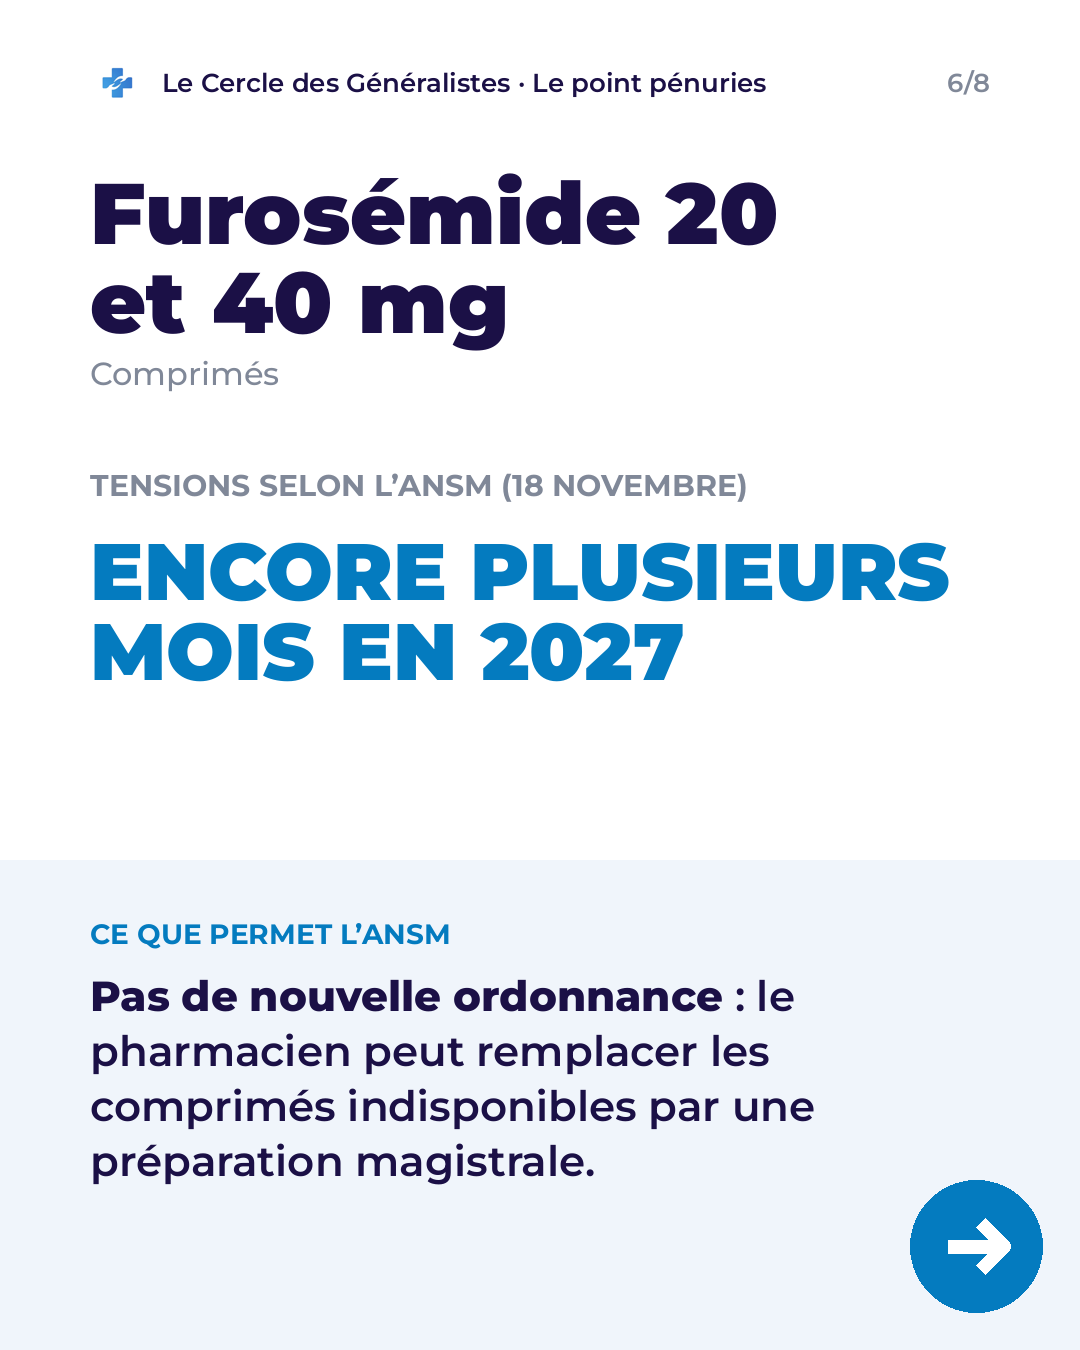
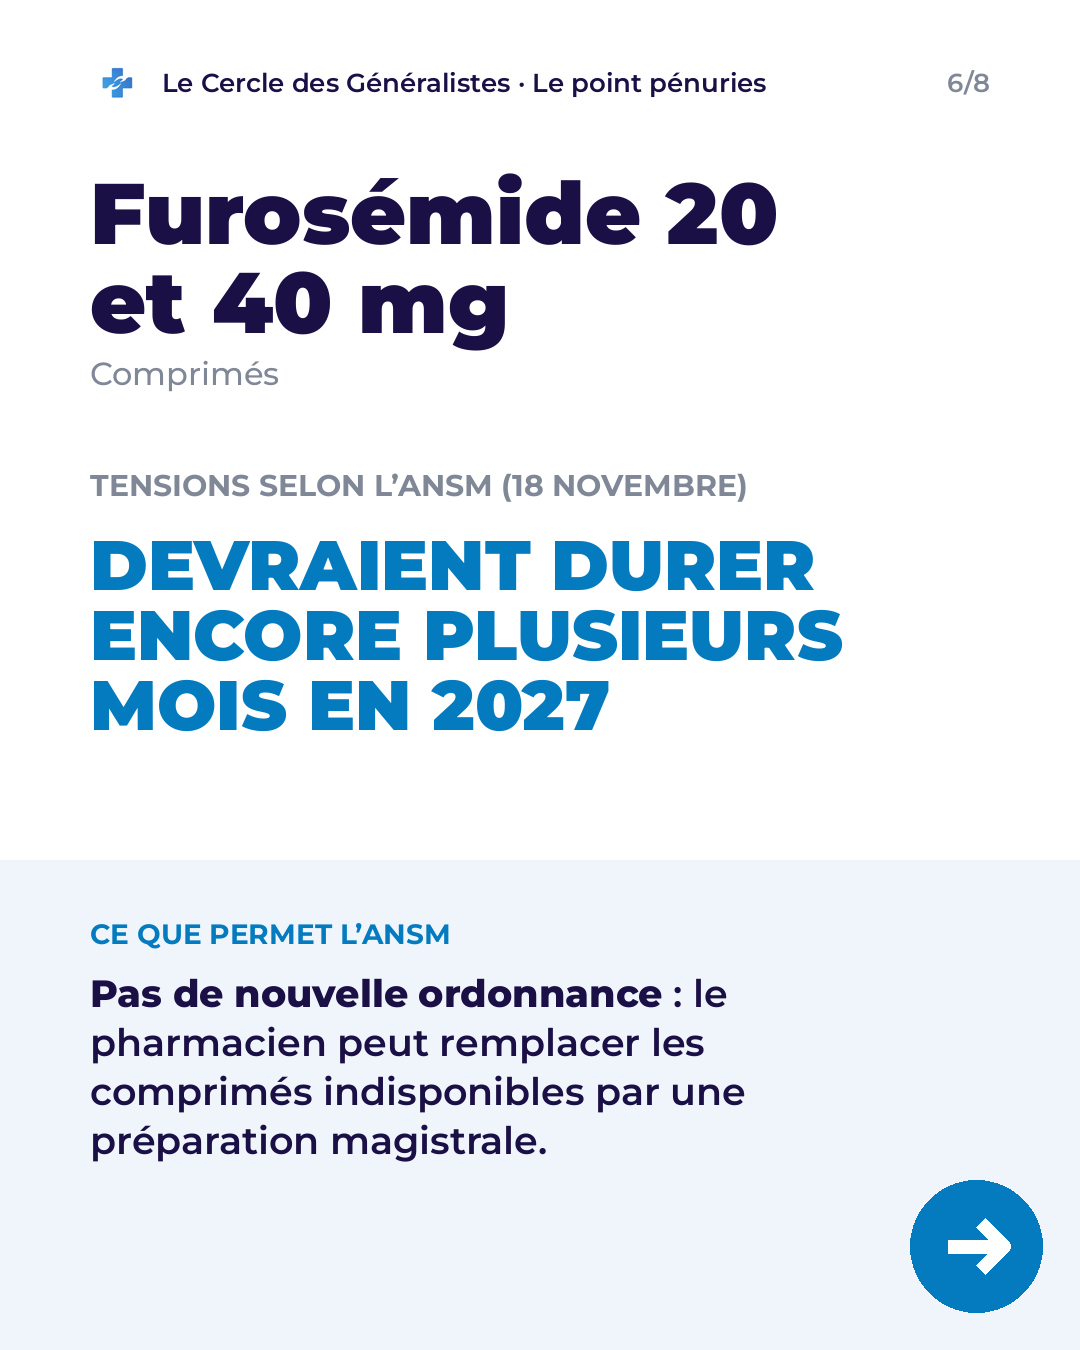
Carrousels du 19/11 : corrections de la relecture independante
Ordonnance de 2026 non tranchee (pastille datee de la prescription), opinion du Cercle detachee du raisonnement du
Conseil d'Etat, conditionnel du furosemide, selection parmi les tensions de l'ANSM, dates de calendrier inventees
retirees, recommandation Jext entiere, mention Zovirax citee mot pour mot ; legendes : question qui fait commenter,
LinkedIn penuries.

Claude-Session: https://claude.ai/code/session_01E7sNzKT9uTZfQaWiRWBKKt

Changed region(s): [[0.0611, 0.3733, 0.8861, 0.56], [0.0611, 0.7156, 0.7639, 0.8711], [0.7028, 0.7156, 0.7333, 0.7467]]

diff --git a/lcdg_1119/carrousels_1119.py b/lcdg_1119/carrousels_1119.py
@@ -111,7 +111,7 @@ def fiche(f, num, total):
     yb = max(y + 70, 860)
     d.rectangle([0, yb, W, H], fill=PALE)
     d.text((MARGE, yb + 56), f["qui"], font=police(28, "Bold"), fill=BLEU)
-    ecrire(d, MARGE, yb + 110, W - 2 * MARGE - 140, f["geste"], 42, graisse="SemiBold", graisse_forte="ExtraBold",
+    ecrire(d, MARGE, yb + 110, W - 2 * MARGE - 140, f["geste"], 38, graisse="SemiBold", graisse_forte="ExtraBold",
            couleur=NUIT, interligne=1.3)
     if num < total:
         fleche(d)
@@ -121,12 +121,13 @@ def fiche(f, num, total):
 # ------------------------------------------------------------------ Secteur 3 (PDF p. 9 et 10)
 SECTEUR3 = [
     # p. 9, SITUATION ; ESSENTIEL (« Quand : au 1er janvier 2027 »)
-    {"titre": f"Leurs ordonnances ne seront *plus remboursées*", "taille_titre": 88, "bandeau_min": 700,
-     "texte": f"Au **1er{NB}janvier 2027**, ce que prescrivent les médecins non conventionnés (secteur{NB}3) ne sera "
-              f"plus remboursé. **Leurs patients viendront vers vous.**",
+    {"titre": f"Secteur{NB}3{NB}: leurs ordonnances ne seront *plus remboursées*", "taille_titre": 82,
+     "bandeau_min": 700,
+     "texte": f"À partir du **1er{NB}janvier 2027**, ce que prescrivent les médecins non conventionnés ne sera plus "
+              f"remboursé, sauf exception. **Leurs patients viendront vers vous.**",
      "image": [{"type": "ordonnance", "titre": "Ordonnance", "marque": f"Secteur{NB}3",
                 "lignes": [{"label": "Médicaments"}, {"label": "Biologie"}, {"label": "Kinésithérapie"}],
-                "pied": f"Plus remboursée au 1er{NB}janvier 2027"}]},
+                "pied": f"Dès le 1er{NB}janvier 2027{NB}: non remboursée"}]},
     # p. 9, CE QUI EST CONFIRMÉ (L. 162-5-10 complété par l'article 76 : « Les produits de santé, les actes et les
     # prestations prescrits […] à l'exception de ceux prescrits par ces médecins à titre gracieux, pour eux-mêmes et
     # pour leurs proches ») ; p. 10 (« biologie, imagerie, kinésithérapie, soins infirmiers, transports »)
@@ -135,7 +136,7 @@ SECTEUR3 = [
               f"médecin non conventionné. Donc aussi la biologie, l{AP}imagerie, la kiné, les soins infirmiers, les "
               f"transports.\nUne seule exception{NB}: ce qu{AP}il prescrit **à titre gracieux**, pour lui-même et ses "
               f"proches.",
-     "image": {"type": "ticket", "titre": f"Prescrit en secteur{NB}3, au 1er{NB}janvier", "lignes": [
+     "image": {"type": "ticket", "titre": f"Prescrit en secteur{NB}3 dès le 1er{NB}janvier 2027", "lignes": [
          {"label": "Médicaments", "valeur": "non remboursés", "ok": False},
          {"label": "Biologie, imagerie", "valeur": "non remboursées", "ok": False},
          {"label": "Kiné, soins infirmiers", "valeur": "non remboursés", "ok": False},
@@ -143,11 +144,11 @@ SECTEUR3 = [
     # p. 9, CE QUI EST CONFIRMÉ (CE n° 517230 du 1er octobre 2026 : refus de renvoyer la QPC de MS3, UFML-S, SML et
     # d'autres ; « il juge que médecins conventionnés et non conventionnés ne sont pas dans une situation comparable et
     # que le droit à la protection de la santé n'est pas atteint, un médecin conventionné restant accessible »)
-    {"titre": f"Le Conseil d{AP}État *a tranché*",
+    {"titre": f"Le Conseil d{AP}État *dit non*",
      "texte": f"Des syndicats ont contesté la mesure. Le 1er{NB}octobre, le Conseil d{AP}État a refusé de "
-              f"transmettre leur question au Conseil constitutionnel.\nSon raisonnement{NB}: le droit à la "
-              f"protection de la santé n{AP}est pas atteint, puisqu{AP}**un médecin conventionné reste "
-              f"accessible**. Ce médecin conventionné, **c{AP}est vous.**",
+              f"transmettre leur question au Conseil constitutionnel.\nIl juge les deux situations non comparables, et "
+              f"le droit à la protection de la santé non atteint, **un médecin conventionné restant accessible**."
+              f"\nSelon nous, ce médecin conventionné, **ce sera souvent vous.**",
      "image": [{"type": "lettre", "entete": f"Conseil d{AP}État", "titre": f"Décision du 1er{NB}octobre 2026"},
                {"type": "tampon", "texte": "Question non transmise", "sur": True}]},
     # p. 10, L'IMPACT (afflux en janvier : renouvellements, biologie, kiné ; pleine période hivernale) et REGARD
@@ -155,8 +156,8 @@ SECTEUR3 = [
     # reprendre un traitement suppose une consultation et un examen, pas un tampon. »)
     {"titre": f"Le piège de *la recopie*",
      "texte": f"Selon le Cercle, janvier va apporter un **afflux de demandes**{NB}: renouvellements de traitements "
-              f"chroniques, biologie, kiné. En pleine période hivernale.\nMais une prescription engage celui qui la "
-              f"signe. Selon nous, reprendre un traitement suppose **une consultation et un examen, pas un "
+              f"chroniques, biologie, kiné. En pleine période hivernale.\nMais selon nous, une prescription engage "
+              f"celui qui la signe{NB}: reprendre un traitement suppose **une consultation et un examen, pas un "
               f"tampon.**",
      "image": {"type": "guichet", "enseigne": "Généraliste", "papier": "Recopie"}},
     # p. 10, RECOMMANDATIONS, médecin généraliste conventionné
@@ -164,19 +165,20 @@ SECTEUR3 = [
      "texte": f"Notre recommandation{NB}: prévoyez **dès décembre des créneaux de reprise de suivi** pour ces "
               f"patients.\nEt à cette consultation, proposez-leur de vous **déclarer médecin traitant**, plutôt que "
               f"de recopier l{AP}ordonnance.",
-     "image": {"type": "calendrier", "annee": 2026, "mois": 12, "du": 1, "au": 4,
-               "legende": "Créneaux de reprise de suivi"}},
+     "image": {"type": "icones", "cartes": [
+         {"icone": "horloge", "label": "Dès décembre : créneaux de reprise", "question": False},
+         {"icone": "patient", "label": "Vous, déclaré médecin traitant", "question": False}]}},
     # p. 10, RECOMMANDATIONS, secrétariat médical
     {"titre": f"Une question *au téléphone*",
-     "texte": f"Votre secrétariat peut repérer ces patients dès décembre. Quand un patient appelle pour une "
+     "texte": f"Votre secrétariat peut repérer ces patients au téléphone. Quand un patient appelle pour une "
               f"ordonnance{NB}: **«{NB}Qui vous l{AP}a prescrite{NB}?{NB}»**\nSi ce médecin n{AP}est pas "
-              f"conventionné, lui proposer **une consultation avant le 1er{NB}janvier 2027**, plutôt qu{AP}un simple "
+              f"conventionné{NB}: proposez au patient **une consultation avant le 1er{NB}janvier 2027**, plutôt qu{AP}un simple "
               f"renouvellement.",
-     "image": {"type": "appel", "etapes": [{"icone": "telephone", "label": f"«{NB}Qui vous l{AP}a prescrite{NB}?{NB}»"},
-                                           {"icone": "courrier", "label": f"Consultation avant le 1er{NB}janvier",
-                                            "temps": 1}]}},
+     "image": {"type": "icones", "cartes": [
+         {"icone": "casque", "label": f"«{NB}Qui vous l{AP}a prescrite{NB}?{NB}»", "question": False},
+         {"icone": "patient", "label": f"Consultation avant le 1er{NB}janvier", "question": False}]}},
     # p. 9-10, CE QUI POSE QUESTION (3 questions au 19 novembre)
-    {"titre": f"Personne *ne sait*",
+    {"titre": f"Ce que les textes *ne disent pas*",
      "texte": f"Une ordonnance de plusieurs mois, rédigée en 2026 et délivrée en 2027{NB}: remboursée ou pas{NB}? "
               f"**L{AP}article{NB}76 ne règle pas ce cas.**\nEt aucun texte lu ne dit comment le pharmacien saura "
               f"que le prescripteur n{AP}est pas conventionné, ni comment le patient, le laboratoire ou l{AP}infirmier "
@@ -187,7 +189,7 @@ SECTEUR3 = [
     # de préciser le sort des ordonnances en cours, et de reconnaître la consultation de reprise de traitement comme une
     # consultation à part entière » (3 demandes, gardées pour le site)
     {"titre": f"Ce que le Cercle *demande*",
-     "texte": f"Le Cercle adresse **3{NB}demandes à l{AP}Assurance Maladie**, avant le 1er{NB}janvier. Elles sont "
+     "texte": f"Le Cercle adresse **3{NB}demandes à l{AP}Assurance Maladie**. Elles sont "
               f"dans notre analyse complète, avec ce que la mesure change pour votre cabinet{NB}: dossier de la revue "
               f"du 19{NB}novembre.",
      "adresse": True, "image": {"type": "verrou", "n": 3}},
@@ -198,8 +200,8 @@ SECTEUR3 = [
 PENURIES_OUVERTURE = {
     # p. 17, SITUATION et L'ESSENTIEL ; furosémide : actualité de l'ANSM du 18 novembre (CONTEXTE)
     "titre": f"Le point *pénuries*", "taille_titre": 110,
-    "texte": f"6 médicaments en tension, signalés par l{AP}ANSM au 19{NB}novembre. Pour chacun{NB}: **la date de "
-             f"retour annoncée, et un geste au cabinet.**\nÀ enregistrer, pour l{AP}avoir sous la main en "
+    "texte": f"6 médicaments en tension, parmi ceux que signale l{AP}ANSM au 19{NB}novembre. Pour chacun{NB}: "
+             f"**ce qu{AP}annonce l{AP}ANSM, et ce qu{AP}il faut savoir au cabinet.**\nÀ enregistrer, pour l{AP}avoir sous la main en "
              f"consultation.",
     "image": {"type": "pharmacie", "pilules": [{"texte": "Contingenté en ville"},
                                                {"texte": "Retour annoncé", "temps": 1}]}}
@@ -209,29 +211,29 @@ FICHES = [
     {"nom": f"Jext 300{NB}µg", "forme": f"Adrénaline, stylo prérempli · contingenté en{NB}ville",
      "libelle": f"RETOUR ANNONCÉ PAR L{AP}ANSM", "date": f"Courant décembre 2026", "taille_date": 92,
      "qui": "NOTRE CONSEIL",
-     "geste": f"Vérifiez que le patient allergique a **2{NB}stylos non périmés**, comme le demande la check-list "
-              f"de l{AP}ANSM."},
+     "geste": f"Vérifiez que chaque patient allergique a **2{NB}stylos non périmés** (check-list de l{AP}ANSM). "
+              f"Plus de Jext dans sa pharmacie{NB}? Signalez le **«{NB}Stock de dépannage d{AP}urgence en ville{NB}»**."},
     # p. 17 (fiche du 3 novembre : remise à disposition fin novembre 2026) ; p. 19, RECOMMANDATIONS (DCI)
     {"nom": f"Diazépam 5{NB}mg", "forme": f"Diazépam Teva 5{NB}mg · contingenté en ville et à{NB}l{AP}hôpital",
      "libelle": f"RETOUR ANNONCÉ PAR L{AP}ANSM", "date": "Fin novembre 2026", "qui": "NOTRE CONSEIL",
-     "geste": f"Prescrivez **en DCI**{NB}: le pharmacien pourra délivrer celui d{AP}un autre laboratoire, s{AP}il "
-              f"est disponible."},
+     "geste": f"Prescrivez **en DCI**{NB}: la fiche de l{AP}ANSM ne vise que la spécialité de Teva. Le pharmacien "
+              f"pourra ainsi délivrer celle d{AP}un autre laboratoire, si elle est disponible."},
     # p. 17 (fiche du 4 novembre : remise à disposition prévue en janvier 2027) ; p. 19, RECOMMANDATIONS (DCI)
     {"nom": "Cotrimoxazole", "forme": f"Cotrimoxazole Teva 800{NB}mg/160{NB}mg · contingenté en{NB}ville",
      "libelle": f"RETOUR ANNONCÉ PAR L{AP}ANSM", "date": "Janvier 2027", "taille_date": 120, "qui": "NOTRE CONSEIL",
-     "geste": f"Prescrivez **en DCI**{NB}: le pharmacien pourra délivrer celui d{AP}un autre laboratoire, s{AP}il "
-              f"est disponible."},
+     "geste": f"Prescrivez **en DCI**{NB}: la fiche de l{AP}ANSM ne vise que la spécialité de Teva. Le pharmacien "
+              f"pourra ainsi délivrer celle d{AP}un autre laboratoire, si elle est disponible."},
     # p. 18 (fiche du 26 octobre : remise à disposition prévue début décembre 2026) ; p. 19, RECOMMANDATIONS (DCI ;
     # « stock limité de dépannage d'urgence en ville »)
     {"nom": f"Nifédipine LP 30{NB}mg", "forme": f"Nifédipine Viatris L.P. 30{NB}mg · contingenté en{NB}ville",
      "libelle": f"RETOUR ANNONCÉ PAR L{AP}ANSM", "date": "Début décembre 2026", "qui": "NOTRE CONSEIL",
-     "geste": f"Prescrivez **en DCI**, et signalez au pharmacien le **«{NB}stock limité de dépannage d{AP}urgence "
-              f"en ville{NB}»**."},
+     "geste": f"Prescrivez **en DCI**{NB}: la fiche ne vise que la spécialité de Viatris. Et signalez au "
+              f"pharmacien le **«{NB}stock limité de dépannage d{AP}urgence en ville{NB}»**."},
     # p. 17, CONTEXTE (ANSM, 18 novembre : « devraient durer encore plusieurs mois en 2027 » ; « permet au pharmacien
     # de remplacer les comprimés indisponibles par une préparation magistrale, sans nouvelle ordonnance »)
     {"nom": f"Furosémide 20 et 40{NB}mg", "forme": "Comprimés",
-     "libelle": f"TENSIONS SELON L{AP}ANSM (18{NB}NOVEMBRE)", "date": f"Encore plusieurs mois en{NB}2027",
-     "taille_date": 80, "qui": f"CE QUE PERMET L{AP}ANSM",
+     "libelle": f"TENSIONS SELON L{AP}ANSM (18{NB}NOVEMBRE)", "date": f"Devraient durer encore plusieurs mois en{NB}2027",
+     "taille_date": 70, "qui": f"CE QUE PERMET L{AP}ANSM",
      "geste": f"**Pas de nouvelle ordonnance**{NB}: le pharmacien peut remplacer les comprimés indisponibles par une "
               f"préparation magistrale."},
     # p. 18 (fiche du 17 novembre : remise à disposition courant janvier 2027 ; « La spécialité Zovirax 200 mg
@@ -239,7 +241,8 @@ FICHES = [
     {"nom": "Zovirax suspension", "forme": f"Aciclovir 200{NB}mg/5{NB}ml, suspension buvable · contingenté en{NB}ville",
      "libelle": f"RETOUR ANNONCÉ PAR L{AP}ANSM", "date": "Courant janvier 2027", "taille_date": 96,
      "qui": f"BON À SAVOIR (ANSM)",
-     "geste": f"**Zovirax 200{NB}mg comprimés reste disponible** pendant la tension de la suspension buvable."},
+     "geste": f"«{NB}La spécialité **Zovirax 200{NB}mg comprimés reste disponible** pendant la durée de la tension "
+              f"de la suspension buvable{NB}»."},
 ]
 PENURIES_FIN = {
     # p. 18, L'IMPACT (« un contingentement ne veut pas dire que le produit manque partout : la disponibilité peut

diff --git a/lcdg_1119/legendes_1119.md b/lcdg_1119/legendes_1119.md
@@ -19,7 +19,9 @@ Au 1er janvier 2027, les prescriptions des médecins non conventionnés ne seron
 
 Pas seulement les médicaments : l'article 76 vise aussi les actes et les prestations prescrits, donc la biologie, l'imagerie, la kiné, les soins infirmiers, les transports. Seule exception : ce que ces médecins prescrivent à titre gracieux, pour eux-mêmes et leurs proches.
 
-Dans le carrousel : le raisonnement du Conseil d'État, le piège de la recopie, ce que vous pouvez préparer dès décembre, la question à confier à votre secrétariat, et ce que personne ne sait encore. À enregistrer pour décembre.
+Dans le carrousel : le raisonnement du Conseil d'État, le piège de la recopie, ce que vous pouvez préparer dès décembre, la question à confier à votre secrétariat, et les questions encore ouvertes. À enregistrer pour décembre.
+
+Et vous, ces patients ont-ils déjà commencé à vous appeler ?
 
 Les 3 demandes du Cercle à l'Assurance Maladie : dans le dossier complet (inscription gratuite), lien en bio.
 
@@ -33,7 +35,7 @@ Même texte que l'Instagram, avec le lien à la fin : [URL-SECTEUR3]?utm_source=
 
 ### LinkedIn (document ou images)
 
-Au 1er janvier 2027, l'article 76 de la loi de financement de la Sécurité sociale pour 2026 rend non remboursables les produits de santé, actes et prestations prescrits par les médecins non conventionnés, sauf ceux prescrits à titre gracieux pour eux-mêmes et leurs proches. Le 1er octobre 2026, le Conseil d'État a refusé de transmettre la question prioritaire de constitutionnalité soulevée par des syndicats : selon lui, le droit à la protection de la santé n'est pas atteint, un médecin conventionné restant accessible.
+Au 1er janvier 2027, l'article 76 de la loi de financement de la sécurité sociale pour 2026 rend non remboursables les produits de santé, actes et prestations prescrits par les médecins non conventionnés, sauf ceux prescrits à titre gracieux pour eux-mêmes et leurs proches. Le 1er octobre 2026, le Conseil d'État a refusé de transmettre la question prioritaire de constitutionnalité soulevée par des syndicats : selon lui, le droit à la protection de la santé n'est pas atteint, un médecin conventionné restant accessible.
 
 Selon le Cercle, l'effet pour le généraliste conventionné est un afflux de demandes en janvier, en pleine période hivernale. Trois questions restent ouvertes au 19 novembre : le sort d'une ordonnance de 2026 délivrée en 2027, l'information du pharmacien, celle du patient, du laboratoire et de l'infirmier.
 
@@ -49,9 +51,11 @@ revérifié chaque fiche le jour même.
 
 Le point pénuries du 19 novembre : 6 médicaments en tension signalés par l'ANSM, leur date de retour annoncée et un geste au cabinet.
 
-Jext 300 µg (retour annoncé courant décembre), diazépam Teva 5 mg (fin novembre), cotrimoxazole Teva 800 mg/160 mg (janvier 2027), nifédipine Viatris L.P. 30 mg (début décembre), furosémide 20 et 40 mg (tensions annoncées pour plusieurs mois encore en 2027), Zovirax 200 mg/5 ml en suspension buvable (courant janvier 2027).
+Jext 300 µg (retour annoncé courant décembre), diazépam Teva 5 mg (fin novembre), cotrimoxazole Teva 800 mg/160 mg (janvier 2027), nifédipine Viatris L.P. 30 mg (début décembre), furosémide 20 et 40 mg (tensions qui « devraient durer encore plusieurs mois en 2027 », selon l'ANSM), Zovirax 200 mg/5 ml en suspension buvable (courant janvier 2027).
 
 À enregistrer, pour l'avoir sous la main en consultation.
+
+Et vous, quelle tension vous a posé problème cette semaine ?
 
 Ce que le Cercle demande pour le prescripteur et les questions encore ouvertes : dans le dossier complet (inscription gratuite), lien en bio.
 
@@ -62,6 +66,14 @@ Ce que le Cercle demande pour le prescripteur et les questions encore ouvertes :
 Titre en première ligne : Pénuries : ce que le prescripteur peut faire cette semaine
 
 Même texte que l'Instagram, avec le lien à la fin : [URL-PENURIES]?utm_source=facebook&utm_medium=carrousel&utm_campaign=penuries
+
+### LinkedIn (document ou images)
+
+L'ANSM signale au 19 novembre 2026 de nouvelles tensions, dont le stylo Jext 300 microgrammes (adrénaline), et maintient celles du cotrimoxazole Teva 800 mg/160 mg, du diazépam Teva 5 mg et de la nifédipine Viatris L.P. 30 mg. Pour le furosémide 20 et 40 mg, elle annonce que les tensions « devraient durer encore plusieurs mois en 2027 » et permet au pharmacien de remplacer les comprimés indisponibles par une préparation magistrale, sans nouvelle ordonnance.
+
+Selon le Cercle, un contingentement ne veut pas dire que le produit manque partout : la disponibilité peut varier d'une officine et d'une semaine à l'autre. Les fiches de l'ANSM sur Jext, le cotrimoxazole, le diazépam et la nifédipine ne comportent aucune recommandation aux prescripteurs.
+
+Ce que le Cercle demande pour le prescripteur (inscription gratuite) : [URL-PENURIES]?utm_source=linkedin&utm_medium=social&utm_campaign=penuries
 
 ## 3. Tiers payant et DPC (`tiers_payant_4x5.png`, `story_tiers_payant.png`, `story_dpc.png`)
 
